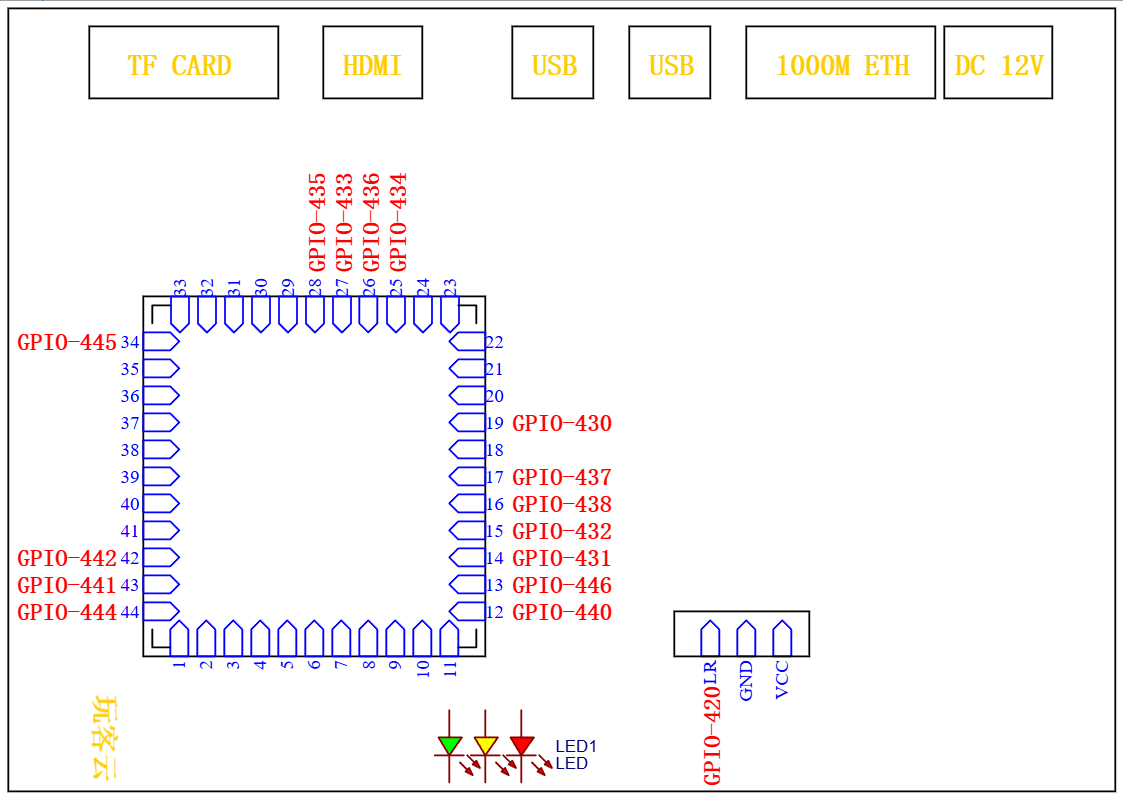
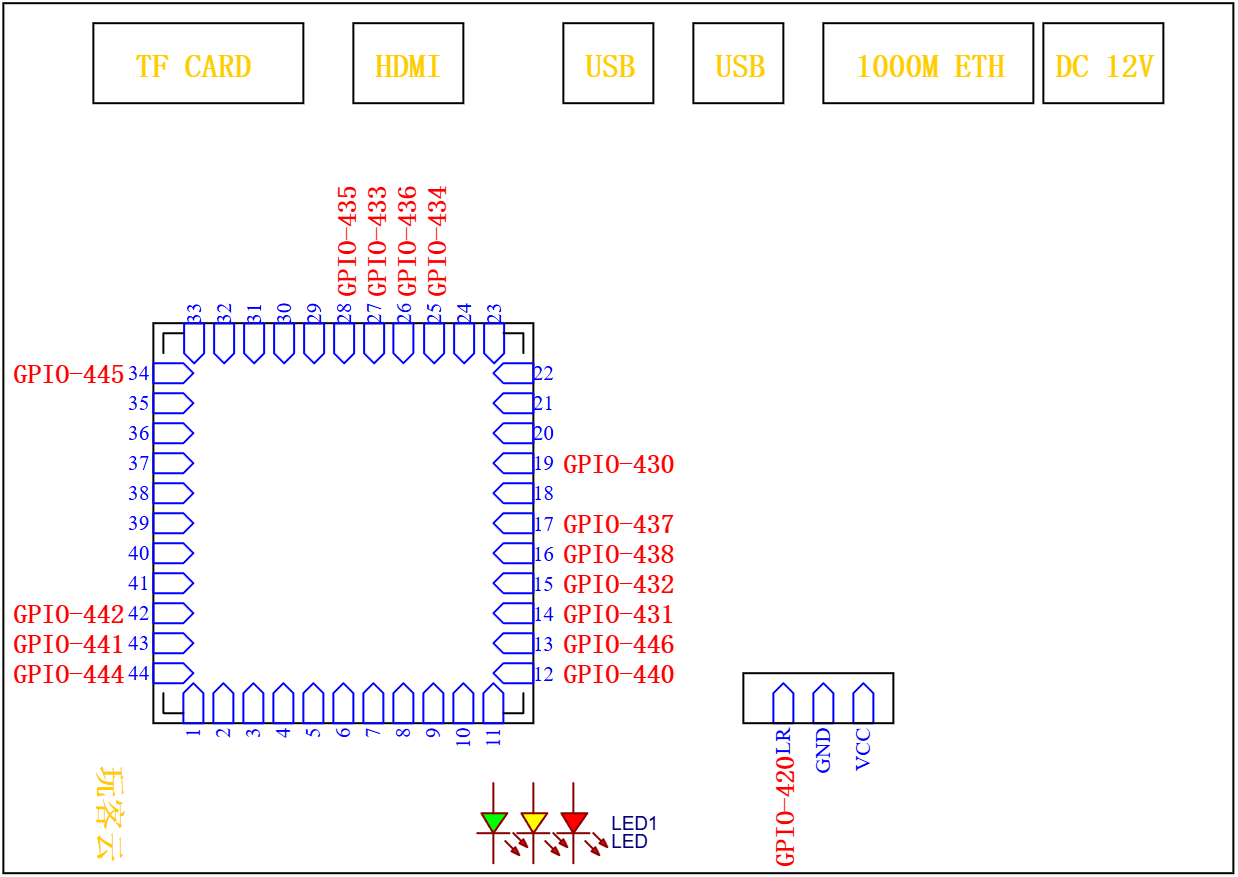
更新文档

Changed region(s): [[0.0, 0.0, 1.0, 1.0]]

diff --git a/docs/en/integration/n1.md b/docs/en/integration/n1.md
@@ -1,0 +1,71 @@
+The Phicomm N1 uses an S905 quad-core CPU with 2 GB of RAM and 8 GB of internal storage. It provides one Gigabit Ethernet port, two USB 2.0 ports, dual-band Wi-Fi, Bluetooth, and HDMI output.
+
+Docker and DEB package deployments are available and relatively easy to set up. To use the integrated image, [sponsor](../other/thanks.md) the author and contact them to obtain it.
+
+## Integrated Image Overview
+
+The latest integrated image names for Phicomm N1 are:
+
+- `One-KVM-RUST_by-SilentWind_N1_v0.2.6_260815-da20d8b.img.xz`
+- `One-KVM-RUST_by-SilentWind_N1-Hwcodec_v0.2.6_260815-da20d8b.img.xz`
+
+Advantages:
+
+- Both images include the PiKVM MSD kernel patch, supporting ISO images larger than 2.2 GB and custom virtual media device names.
+- The former is based on the ophub system with a Linux 6.12.x kernel; the latter is ported from the CoreELEC system with a Linux 4.9.x kernel and supports Amlogic hardware codecs.
+
+The latter integrated image supports hardware codecs and can use the Amlogic hardware encoder for AMLENC H.264 video encoding. The installation process is the same for both images, so choose according to your needs.
+
+![AMLENC hardware encoding test](../../zh/integration/images/n1-amlenc-encoding-test.png)
+![Hardware codec devices](../../zh/integration/images/n1-hwcodec-devices.png)
+
+## Integrated Image Deployment
+
+1. **Prepare the boot media**: Write the One-KVM integrated image to a USB drive, then insert the drive into the USB port on the N1 far from the HDMI connector.
+2. **Boot from the USB drive**: Connect power and the system will boot automatically from the USB drive. If it fails to boot from USB, you may need to downgrade the factory system first.
+3. **Install the system to eMMC**: After the system boots successfully from the USB drive, sign in through HDMI or SSH and run `armbian-install`. Select model `101`, which matches the board version.
+
+The following screenshot shows the `armbian-install` process:
+
+![Phicomm N1 armbian-install process](../../zh/integration/images/n1-armbian-install.png)
+
+If you need to reflash the device later, write the new image to a USB drive. After inserting it and powering on, the device will boot from the USB drive first.
+
+## Usage Notes
+
+After the first boot, the system has approximately 4.8 GB of available storage.
+
+**Hardware connections**
+
+1. Plug the USB HDMI capture card into the standard USB port far from the HDMI connector, then connect the capture card to the target machine's HDMI output with an HDMI cable.
+2. Plug one end of the USB male-to-male cable into the USB OTG port near the HDMI connector and the other end into a USB port on the target machine.
+3. Make sure all connections are secure, then connect Ethernet and power.
+
+!!! warning "Hardware safety warning"
+
+    To avoid potential risks, such as the target device failing to boot or recognize devices, and in very rare cases hardware damage, we strongly recommend taking one of the following safety measures before using a USB male-to-male cable:
+
+    Option 1: Cut or remove the red 5V power wire (VCC) in the USB cable, leaving only the data wires (D+/D−) and ground (GND), to prevent back-powering.
+
+    Option 2: Insert a USB hub with an independent power switch in the USB link and make sure its power switch is off when connecting.
+
+    Some low-power devices may be back-powered through the USB OTG port from the KVM device when main power is not connected. This can put the device into an abnormal state, and it may still fail to boot normally even after main power is connected later.
+
+    **Unless you clearly understand the consequences, use the protections above to keep devices safe.**
+
+**HDMI terminal**
+
+The HDMI terminal displays the device IP address and software version.
+
+![Phicomm N1 HDMI terminal](../../zh/integration/images/n1-hdmi-terminal.png)
+
+**SSH remote login**
+
+SSH is enabled by default on Armbian. The initial username and password are `root` / `1234`. Change the default password as soon as possible.
+
+!!! warning "System upgrade warning"
+    Do not use `apt upgrade` to upgrade the kernel and device tree. This may cause system problems and make OTG unavailable.
+
+**Wi-Fi**
+
+You can use the `nmtui` command in the terminal to open its interface and select an active connection to enter the Wi-Fi connection screen.

diff --git a/docs/zh/integration/n1.md b/docs/zh/integration/n1.md
@@ -1,0 +1,71 @@
+斐讯 N1 采用了 S905 四核 CPU，搭配 2GB 内存和 8GB 内部储存空间。它配备了一个千兆网络接口、2个 USB 2.0接口，并提供双频 WIFI 、蓝牙和 HDMI 输出。
+
+已有 Docker 和 DEB 软件包两种部署方式，两者操作较为简单。若选择整合包部署方式，需要[赞助](../other/thanks.md)作者并联系作者获取镜像。
+
+## 整合包介绍
+
+斐讯 N1 最新整合包名称如下：
+
+- One-KVM-RUST_by-SilentWind_N1_v0.2.6_260815-da20d8b.img.xz
+- One-KVM-RUST_by-SilentWind_N1-Hwcodec_v0.2.6_260815-da20d8b.img.xz
+
+优势：
+
+- 两者都应用了 PiKVM MSD 内核补丁，支持大于 2.2G 的 ISO 挂载和虚拟媒体设备名称自定义；
+- 前者基于 ophub 系统，Linux 内核版本为 6.12.x；后者基于 coreelec 系统移植，Linux 内核版本为 4.9.x，支持晶晨硬件编解码。
+
+后者整合包支持硬件编解码，可使用晶晨硬件编码器进行 AMLENC H.264 视频编码。两者安装方式无差异，可根据需要自行选择。
+
+![AMLENC 硬件编码测试](images/n1-amlenc-encoding-test.png)
+![硬件编解码设备](images/n1-hwcodec-devices.png)
+
+## 整合包部署
+
+1. **准备 U盘启动介质**：将 One-KVM 整合包写入U盘，再将U盘插入 N1 盒子远离 HDMI 的那个USB接口。
+2. **从 U盘引导**：接通电源即可自动启动U盘。若无法从 USB 设备启动，可能需要先降级原厂系统。
+3. **将系统安装至 eMMC**：U盘的系统成功启动后，通过 HDMI 或 SSH 登录终端，执行 `armbian-install`，选择与主板版本对应的型号`101`。
+
+下图为 `armbian-install` 安装过程：
+
+![N1 armbian-install 安装过程](images/n1-armbian-install.png)
+
+若后续需要再次刷机，可以将新镜像写入U盘，插入后上电会优先启动U盘上的系统。
+
+## 使用说明
+
+系统首次启动后，约有 4.8 GB 可用存储空间。
+
+**硬件连接**
+
+1. 将 USB HDMI 采集卡插入远离 HDMI 接口的普通 USB 接口，再使用 HDMI 线连接采集卡和被控机的 HDMI 输出接口。
+2. 将 USB 双公线插入接近 HDMI 接口的 USB OTG 接口，另一端插入被控机的 USB 接口。
+3. 确保所有连接稳固，再接入网线和电源。
+
+!!! warning "硬件安全警告"
+
+    为避免潜在风险（如被控设备无法正常启动或识别设备，甚至极少数情况下造成硬件损坏），强烈建议在使用 USB 双公线前采取以下任一安全措施：
+
+    方案一：剪断或移除 USB 线中的红色 5V 电源线（VCC），仅保留数据线（D+/D−）和地线（GND），以切断供电路径；
+
+    方案二：在 USB 链路中串接一个带独立电源开关的 USB HUB，并确保在连接时关闭其电源开关。
+
+    部分低功耗设备可能在未通主电源的情况下，通过 USB OTG 接口从 KVM 设备反向取电，导致进入异常状态——即使后续接通主电源也可能无法正常启动。
+
+    **除非您明确了解操作后果，否则请务必采用上述防护措施以保障设备安全。**
+
+**HDMI 终端**
+
+通过 HDMI 输出终端可以查看设备 IP 地址和软件版本。
+
+![N1 HDMI 终端](images/n1-hdmi-terminal.png)
+
+**SSH 远程登录**
+
+Armbian 系统默认开启 SSH 服务，初始用户名和密码为 `root` / `1234`。请尽快修改默认密码。
+
+!!! warning "系统升级警告"
+    不建议使用 `apt upgrade` 升级内核和设备树，可能会出现系统异常，OTG 功能无法使用。
+
+**WIFI**
+
+可以在终端使用 `nmtui` 命令进入命令行界面，选择激活连接进入 WIFI 连接界面。

diff --git a/docs/zh/integration/onecloud.md b/docs/zh/integration/onecloud.md
@@ -112,9 +112,9 @@ reboot
 
 需要提前准备光耦隔离模块，相比于继电器模块更加推荐使用光耦隔离模块。
 
-电脑主板 9 Pin 中的 POWER LED+ 和 POWER LED- 分别连接光耦隔离模块输入端的正极和负极（有严格对应关系），光耦隔离模块输出端的 GND和 OUT 分别玩客云的电源状态灯焊盘和 VCC 焊盘（无严格对应关系）。
+电脑主板 9 Pin 中的 POWER LED+ 和 POWER LED- 分别连接光耦隔离模块输入端的正极和负极（有严格对应关系），光耦隔离模块输出端的 GND和 OUT 分别玩客云的电源状态灯焊盘和 GND 焊盘（无严格对应关系）。
 
-电脑主板 9 Pin 中的 HDD LED+ 和 HDD LED- 分别连接光耦隔离模块输入端的正极和负极（有严格对应关系），光耦隔离模块输出端的 GND 和 OUT 分别玩客云的 HDD 状态灯焊盘和 VCC 焊盘（无严格对应关系）。
+电脑主板 9 Pin 中的 HDD LED+ 和 HDD LED- 分别连接光耦隔离模块输入端的正极和负极（有严格对应关系），光耦隔离模块输出端的 GND 和 OUT 分别玩客云的 HDD 状态灯焊盘和 GND 焊盘（无严格对应关系）。
 
 ![玩客云 GPIO 引脚图](../../img/onecloud_gpio_pinout.png)
 

diff --git a/docs/zh/integration/onecloud-pro.md b/docs/zh/integration/onecloud-pro.md
@@ -12,7 +12,7 @@
 优势：
 
 - 两者都应用了 PiKVM MSD 内核补丁，支持大于 2.2G 的 ISO 挂载和虚拟媒体设备名称自定义；
-- 前者基于 ophub 系统，Linux 内核版本为 6.12.x；后者基于 khadas vim2 系统移植，Linux 内核版本为 4.9.x,支持晶晨硬件编解码。
+- 前者基于 ophub 系统，Linux 内核版本为 6.12.x；后者基于 khadas vim2 系统移植，Linux 内核版本为 4.9.x，支持晶晨硬件编解码。
 
 前者整合包在玩客云 Pro 和章鱼星球上都有 HDMI 显示；后者整合包只在玩客云 Pro 有 HDMI 显示，在章鱼星球上无 HDMI 显示。
 
